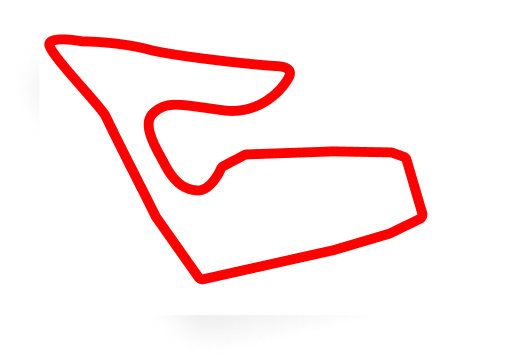
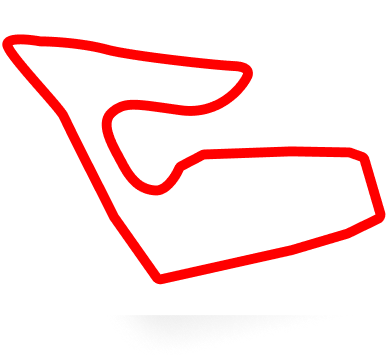
feat: creating new race component and adjusting tracks imgs

Changed region(s): [[0.0, 0.0907, 1.0, 0.7857], [0.3692, 0.1209, 0.6462, 0.3324]]

diff --git a/src/app/services/races.service.ts b/src/app/services/races.service.ts
@@ -20,7 +20,7 @@ export class RacesService {
   private STATUS_FINISHED = '1';
   private STATUS_ACCIDENT = '3';
   private STATUS_MORETHAN_ONE_LAP = '11';
-  
+
   // action stream
   private raceSeasonSelectedSubject = new Subject<string>();
   raceSeasonSelectedAction$ = this.raceSeasonSelectedSubject.asObservable();
@@ -42,27 +42,27 @@ export class RacesService {
   }
 
   status2021Season$ = this.raceSeasonSelectedAction$.pipe(
-    switchMap( season => 
-      season === '2021' ? 
+    switchMap( season =>
+      season === '2021' ?
         this.http.get<any>(`${this.races_url}/${season}/status.json`).pipe(
           map( response => {
             let statusArr: IStatus[];
             statusArr = response.MRData.StatusTable.Status.filter( (responseStatus: IStatus) => {
-              return responseStatus.statusId === this.STATUS_FINISHED || 
+              return responseStatus.statusId === this.STATUS_FINISHED ||
                 responseStatus.statusId === this.STATUS_ACCIDENT ||
-                responseStatus.statusId === this.STATUS_MORETHAN_ONE_LAP;     
+                responseStatus.statusId === this.STATUS_MORETHAN_ONE_LAP;
             })
             return statusArr;
           })
-        ) 
+        )
       : of(null)),
     catchError(this.handleError)
   )
 
   standingList$ = this.roundSelected$.pipe(
     withLatestFrom(this.raceSeasonSelectedAction$),
-    switchMap( ([round, season]) => 
-      round.length ? 
+    switchMap( ([round, season]) =>
+      round.length ?
         this.http.get<any>(`${this.races_url}/${season}/${round}/driverStandings.json`).pipe(
           map( response => {
             let resultsArr: IResult[];
@@ -84,7 +84,7 @@ export class RacesService {
 
   qualifyingList$ = this.roundSelected$.pipe(
     withLatestFrom(this.raceSeasonSelectedAction$),
-    switchMap( ([round, season]) => 
+    switchMap( ([round, season]) =>
       round.length ?
         this.http.get<any>(`${this.races_url}/${season}/${round}/qualifying.json`).pipe(
           map( response => {
@@ -106,7 +106,7 @@ export class RacesService {
 
   resultsList$ = this.roundSelected$.pipe(
     withLatestFrom(this.raceSeasonSelectedAction$),
-    switchMap( ([round, season]) => 
+    switchMap( ([round, season]) =>
       round.length ?
         this.http.get<any>(`${this.races_url}/${season}/${round}/results.json`).pipe(
           map( response => {
@@ -127,8 +127,8 @@ export class RacesService {
   )
 
   raceList$ = this.raceSeasonSelectedAction$.pipe(
-    switchMap( season => 
-      season.length ? 
+    switchMap( season =>
+      season.length ?
         this.http.get<any>(`${this.races_url}/${season}.json`).pipe(
           map( response => {
             let racesArr: IRace[];
@@ -136,14 +136,15 @@ export class RacesService {
               let race: IRace = {
                 round: responseRace.round,
                 raceName: responseRace.raceName,
-                isClicked: false
+                isClicked: false,
+                date: responseRace.date
               };
               return race;
             });
             return racesArr;
           }),
           tap( () => this.spinnerService.showSpinner(false))
-        ) 
+        )
       : of(null)),
     catchError(this.handleError)
   )

diff --git a/src/app/components/race/race.component.ts b/src/app/components/race/race.component.ts
@@ -1,0 +1,28 @@
+import { Component, OnInit } from '@angular/core';
+import { MatOptionSelectionChange } from '@angular/material/core';
+import { RacesService } from 'src/app/services/races.service';
+
+@Component({
+  selector: 'app-race',
+  templateUrl: './race.component.html',
+  styleUrls: ['./race.component.scss']
+})
+export class RaceComponent {
+
+  constructor(private raceService: RacesService) {
+    this.seasons = ['2018', '2019', '2020', '2021', '2022'];
+  }
+
+  seasons: string[];
+  raceList$ = this.raceService.raceList$;
+
+    /* the behaviour of onSelectionChange is the following:
+     A selection change event is fired not only when an option is selected but also when it is deselected
+     We want just the first event, that's why we need to check if event.isUserInput
+  */
+     onSeasonSelected($event: MatOptionSelectionChange, seasonSelected: string): void {
+      if($event.isUserInput) {
+        this.raceService.selectedSeasonChanged(seasonSelected);
+      }
+    }
+}

diff --git a/src/app/components/race/race.component.html b/src/app/components/race/race.component.html
@@ -1,0 +1,22 @@
+
+<mat-form-field appearance="fill">
+  <mat-label>Current Season</mat-label>
+  <mat-select>
+    <mat-option *ngFor="let season of seasons" [value]="season"
+    (onSelectionChange)="onSeasonSelected($event, season)">
+      {{ season }}
+    </mat-option>
+  </mat-select>
+</mat-form-field>
+
+<div class="race__list__container" *ngIf="raceList$ | async as races">
+
+  <div class="race__container" *ngFor="let race of races">
+    <img src="/assets/img/tracks/Abu_Dhabi.png" width="120" height="120">
+    <p> {{ race.raceName }}</p>
+    <p> {{ race.date }} </p>
+    <button>details</button>
+  </div>
+
+</div>
+

diff --git a/src/app/app.module.ts b/src/app/app.module.ts
@@ -25,6 +25,7 @@ import { ResultsComponent } from './components/results/results.component';
 import { DriverComponent } from './components/driver/driver.component';
 import { WelcomeComponent } from './components/welcome/welcome.component';
 import { HeaderComponent } from './components/header/header.component';
+import { RaceComponent } from './components/race/race.component';
 
 
 const ngHttpCachingConfig: NgHttpCachingConfig = {
@@ -44,6 +45,7 @@ const ngHttpCachingConfig: NgHttpCachingConfig = {
     DriverComponent,
     WelcomeComponent,
     HeaderComponent,
+    RaceComponent,
   ],
   imports: [
     BrowserModule,

diff --git a/src/app/components/race/race.component.spec.ts b/src/app/components/race/race.component.spec.ts
@@ -1,0 +1,23 @@
+import { ComponentFixture, TestBed } from '@angular/core/testing';
+
+import { RaceComponent } from './race.component';
+
+describe('RaceComponent', () => {
+  let component: RaceComponent;
+  let fixture: ComponentFixture<RaceComponent>;
+
+  beforeEach(async () => {
+    await TestBed.configureTestingModule({
+      declarations: [ RaceComponent ]
+    })
+    .compileComponents();
+
+    fixture = TestBed.createComponent(RaceComponent);
+    component = fixture.componentInstance;
+    fixture.detectChanges();
+  });
+
+  it('should create', () => {
+    expect(component).toBeTruthy();
+  });
+});

diff --git a/src/app/app.component.html b/src/app/app.component.html
@@ -1,7 +1,7 @@
 <app-header></app-header>
+<app-race></app-race>
 
-<div class="body">
-  <!-- <app-driver></app-driver> -->
+<!-- <div class="body">
   <router-outlet></router-outlet>
 </div>
 
@@ -11,7 +11,7 @@
       <mat-spinner></mat-spinner>
     </div>
   </div>
-</div>
+</div> -->
 
 <!-- <div class="wrapper">
   <nav mat-tab-nav-bar [tabPanel]="tabPanel">

diff --git a/src/app/components/race/race.component.scss b/src/app/components/race/race.component.scss
@@ -1,0 +1,18 @@
+.race__container {
+  margin: 1rem;
+  display: flex;
+  flex-direction: column;
+  align-items: center;
+  width: 12rem;
+  height: 14rem;
+  border: solid red 1px;
+}
+
+.race__container:hover {
+  scale: 1.2;
+}
+
+.race__list__container {
+  display: flex;
+  flex-wrap: wrap;
+}

diff --git a/src/app/model/irace.ts b/src/app/model/irace.ts
@@ -2,4 +2,5 @@ export interface IRace {
   round: string; // identifier
   raceName: string;
   isClicked?: boolean;
+  date: string;
 }
